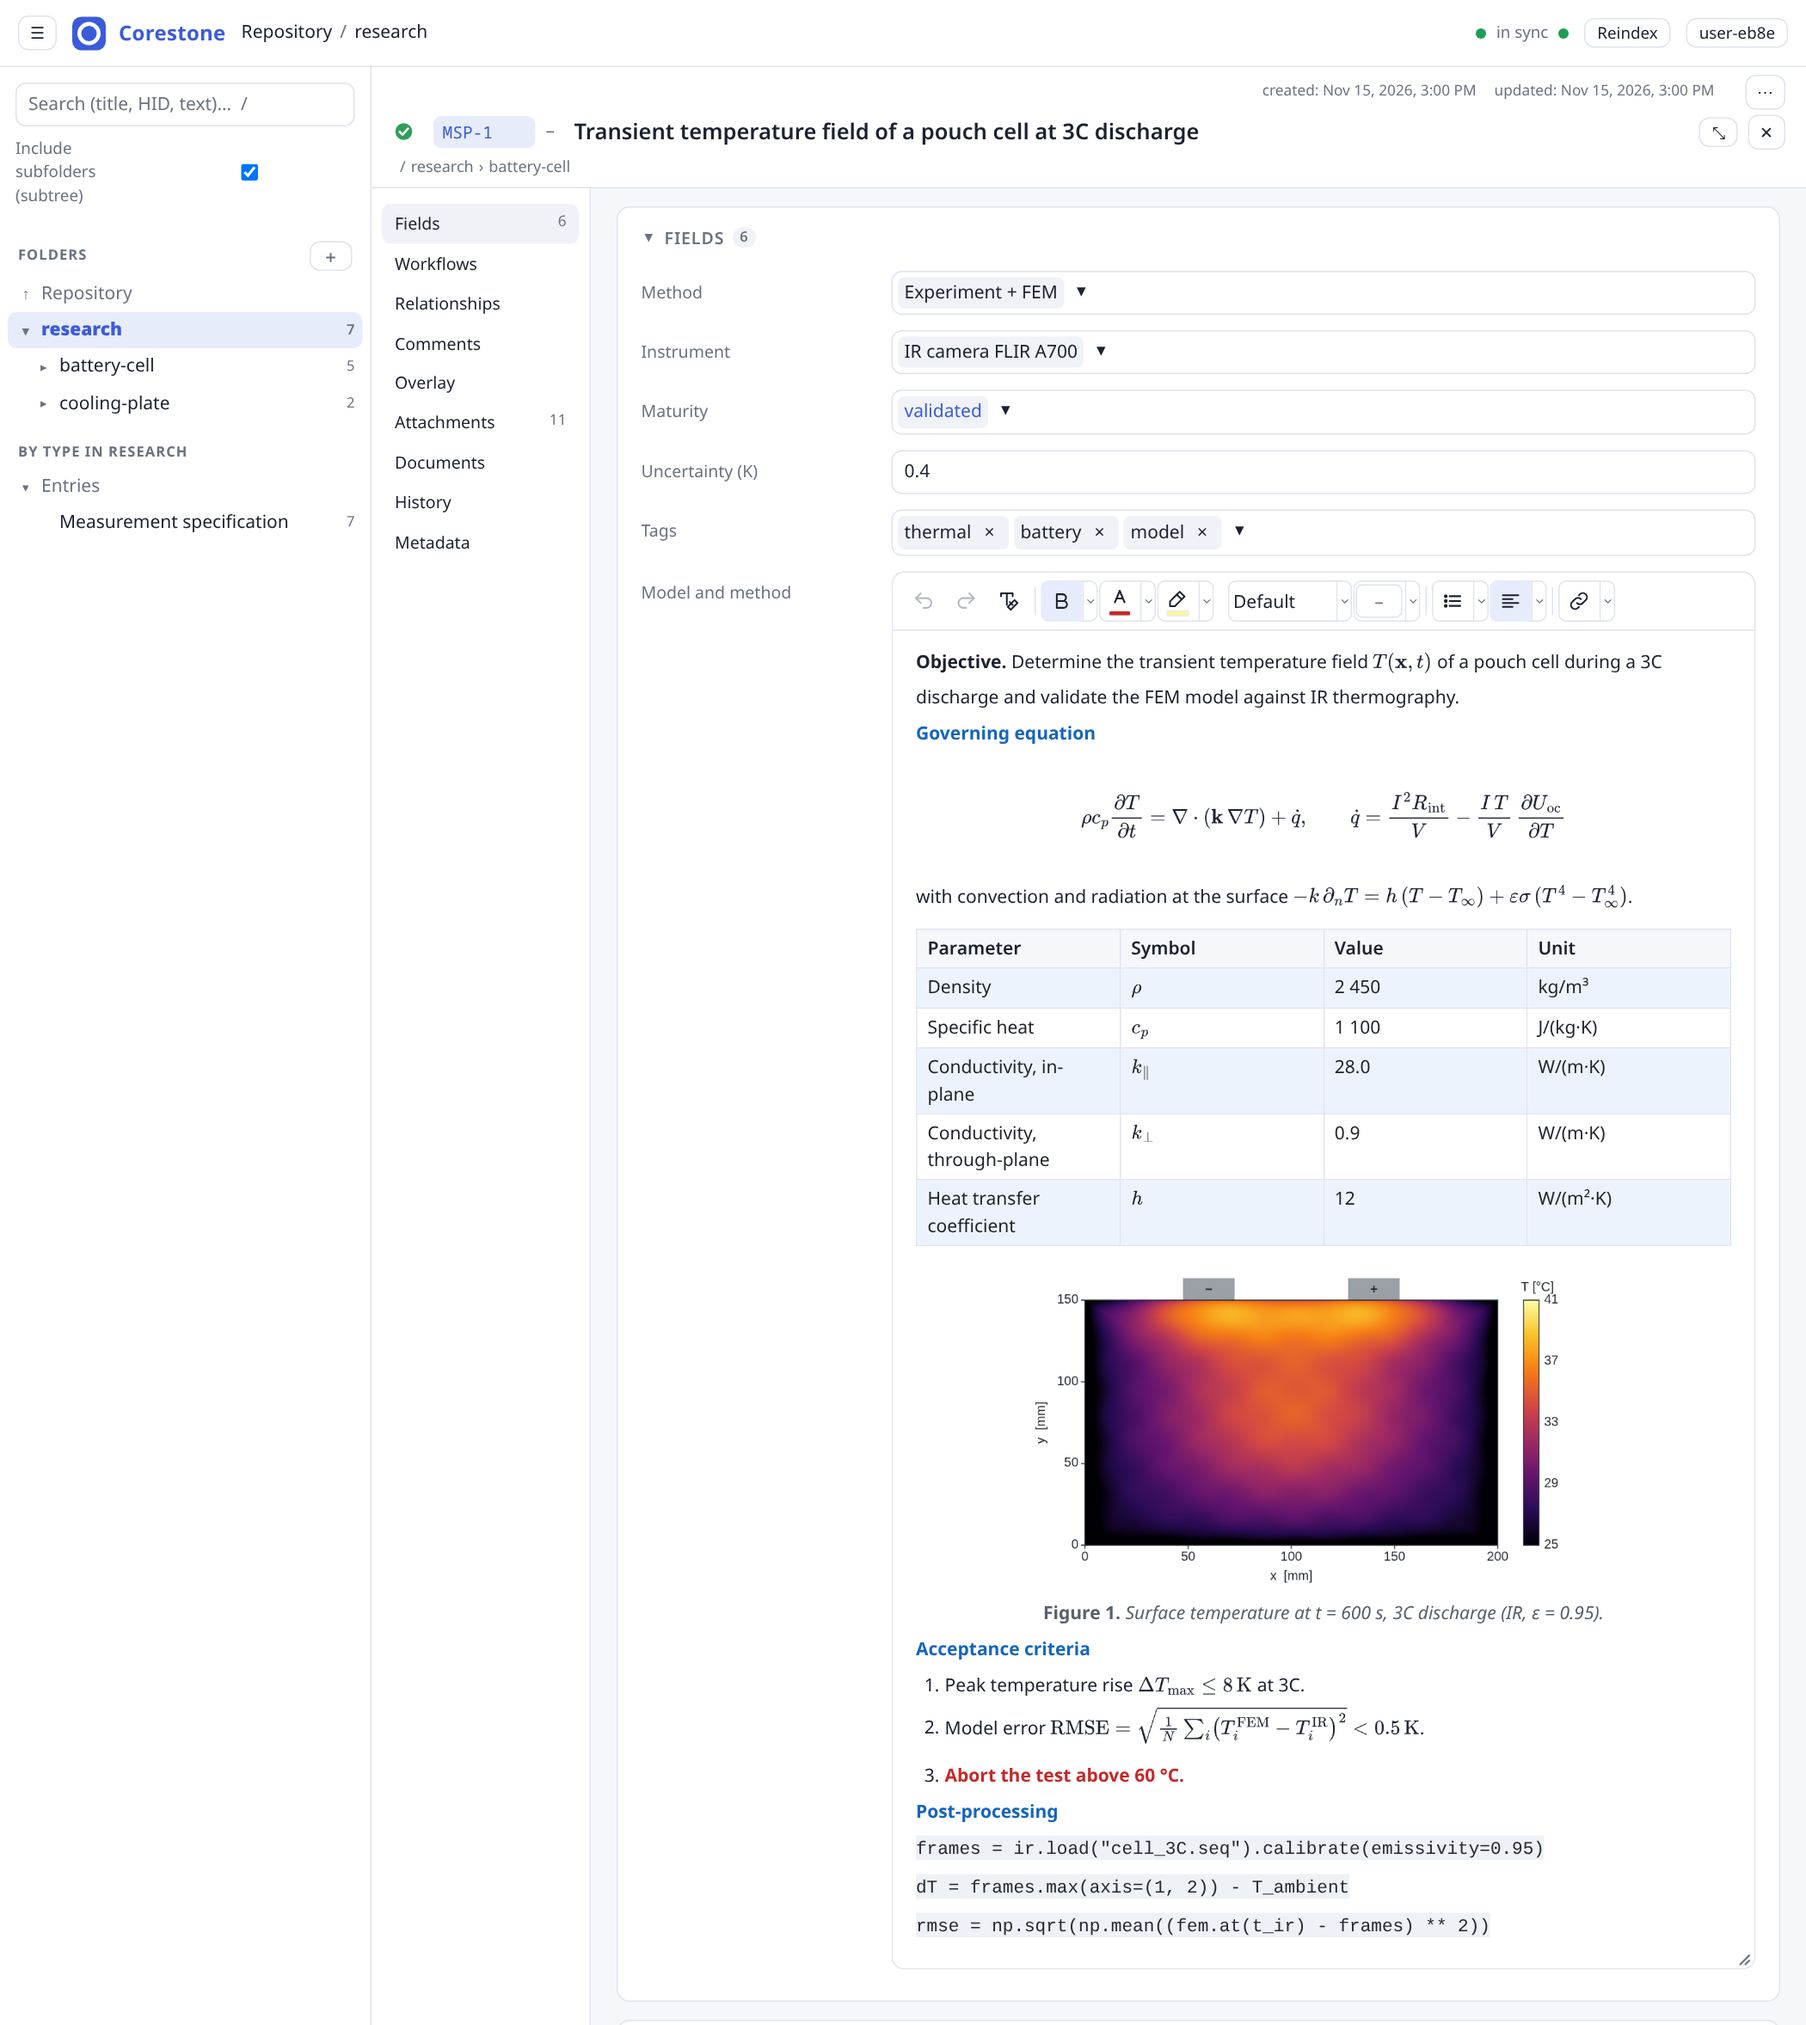
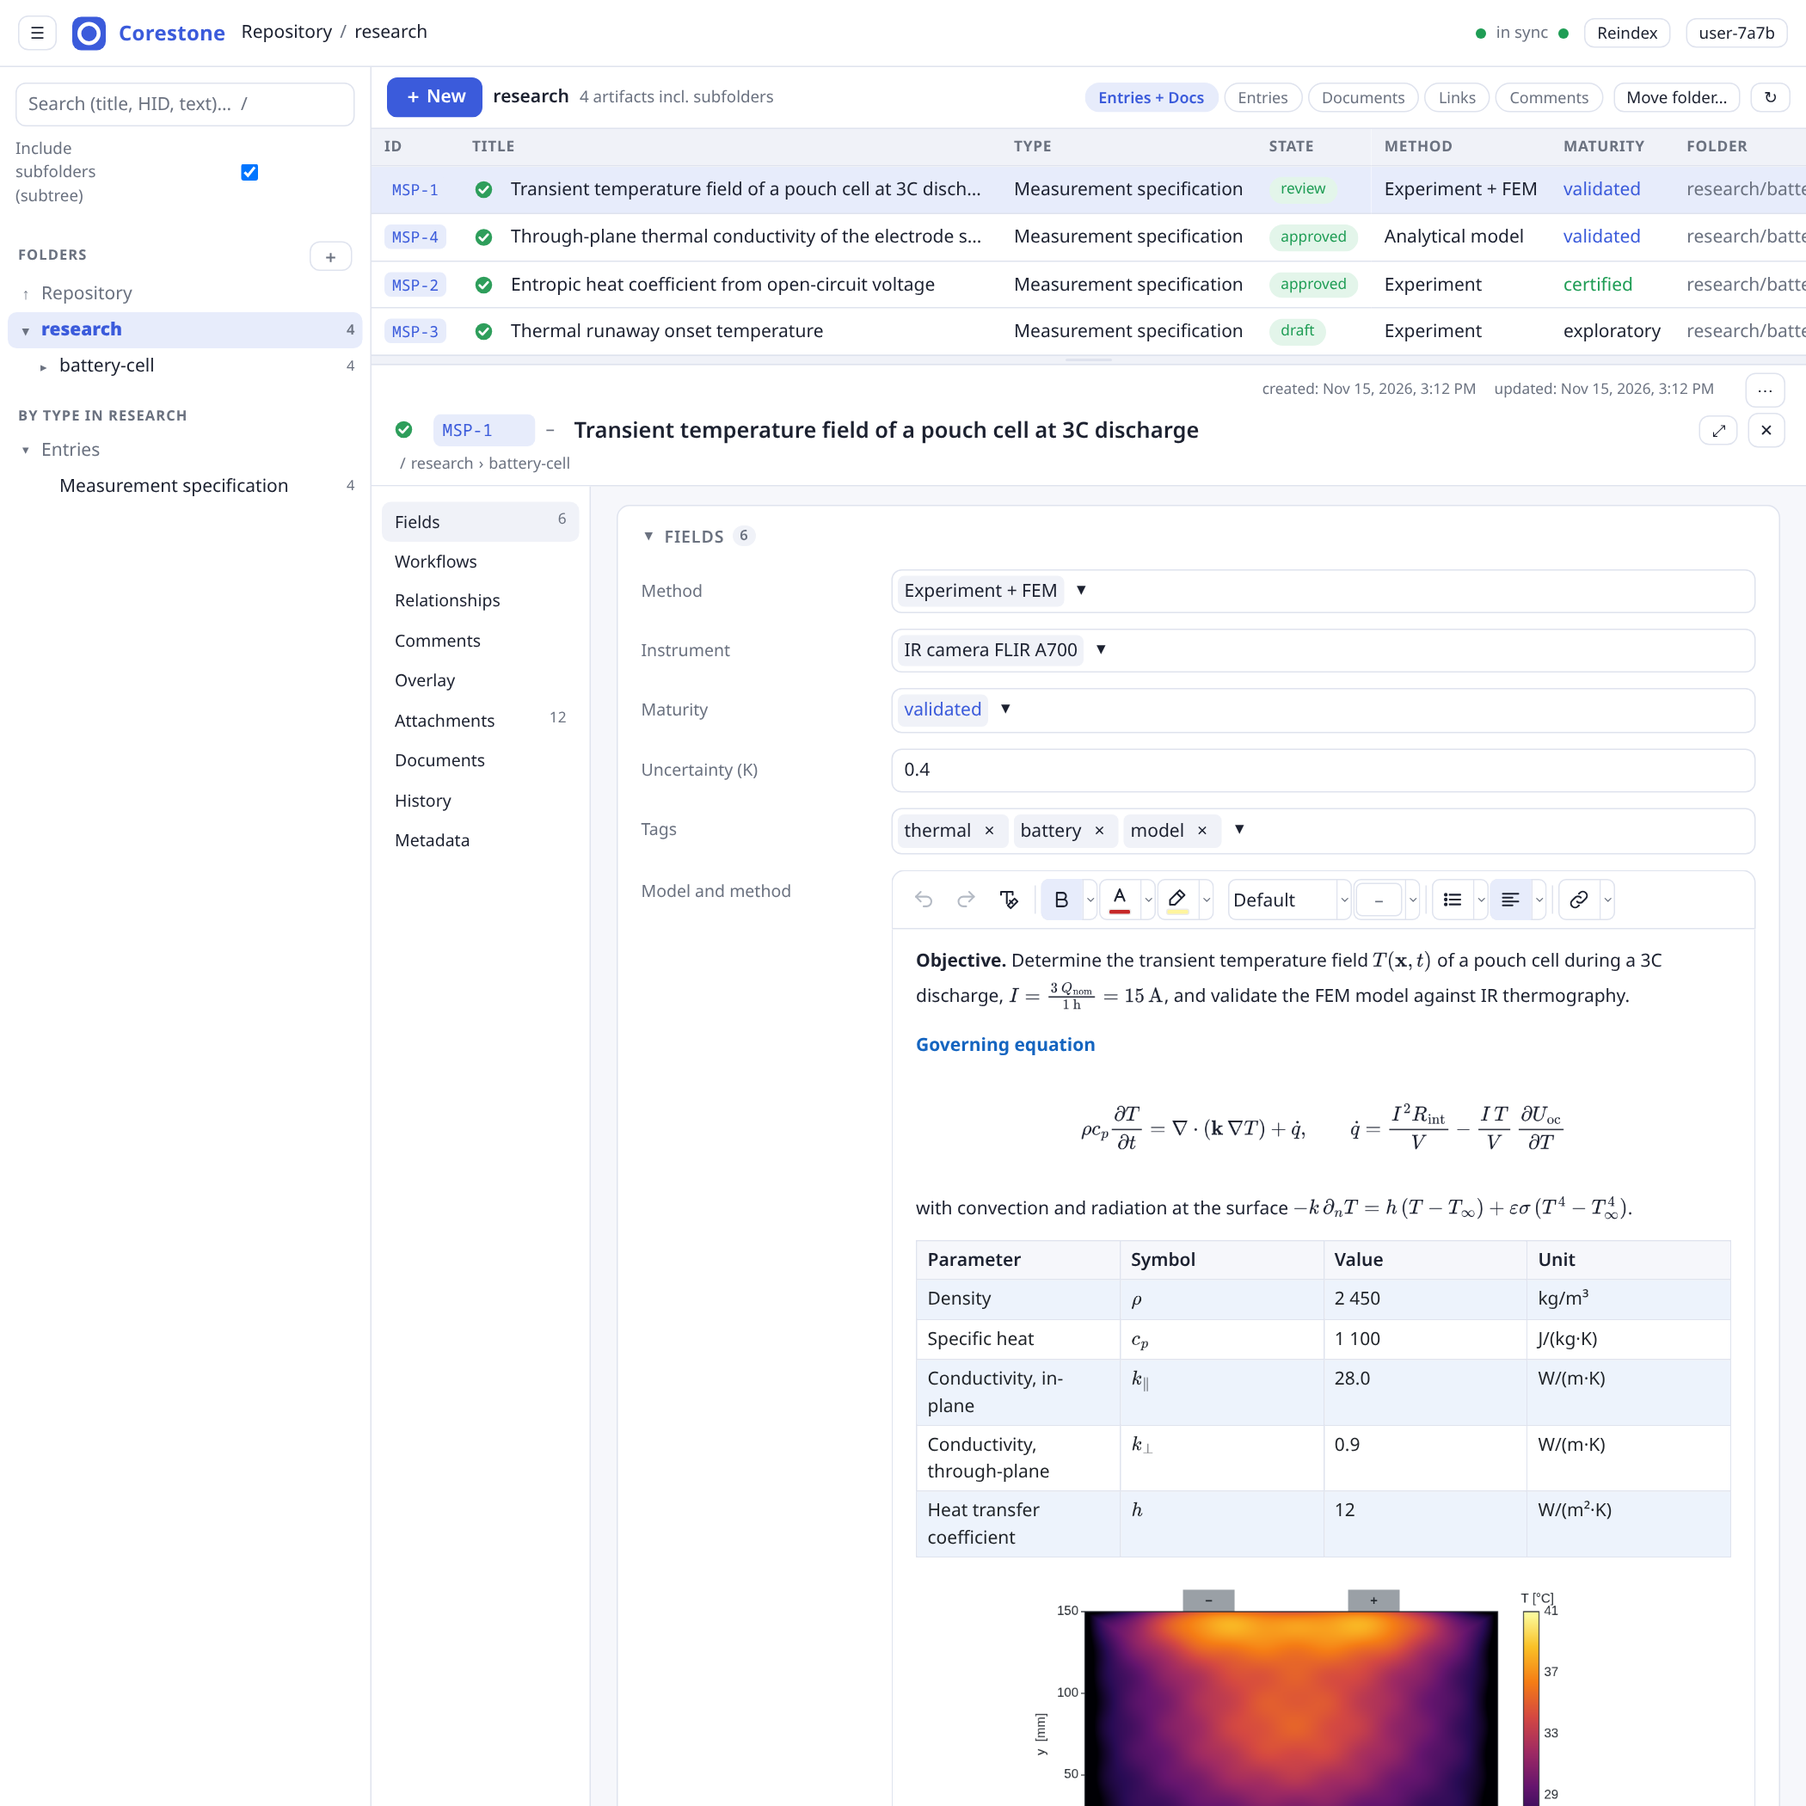
README: the screenshot with the overview and part of the rich text
Four measurement specifications in the overview, the detail with its
dropdowns and the rich text up to the table, cut halfway through the
figure; an inline fraction in the first sentence.

diff --git a/README.md b/README.md
@@ -12,7 +12,7 @@
 [![Source of truth](https://img.shields.io/badge/Source%20of%20truth-Git-F05032?logo=git&logoColor=white)](#how-it-works)
 [![License](https://img.shields.io/badge/License-Apache%202.0-D22128?logo=apache&logoColor=white)](LICENSE)
 
-<img src="docs/screenshot.png" alt="Corestone web client: a measurement specification with schema-generated fields (dropdowns, tags) and a rich-text field with formulas, a striped table, an inline figure, a numbered list and code" width="800">
+<img src="docs/screenshot.png" alt="Corestone web client: the overview of a research folder with HIDs, workflow states and type-specific columns, and a measurement specification with schema-generated fields (dropdowns, tags) and a rich-text field with inline and display formulas, a striped table and a figure" width="900">
 
 *The generic client renders itself from the repository's schemas: navigation, overview columns,
 detail sections, workflows and relationship types all come from configuration.*
